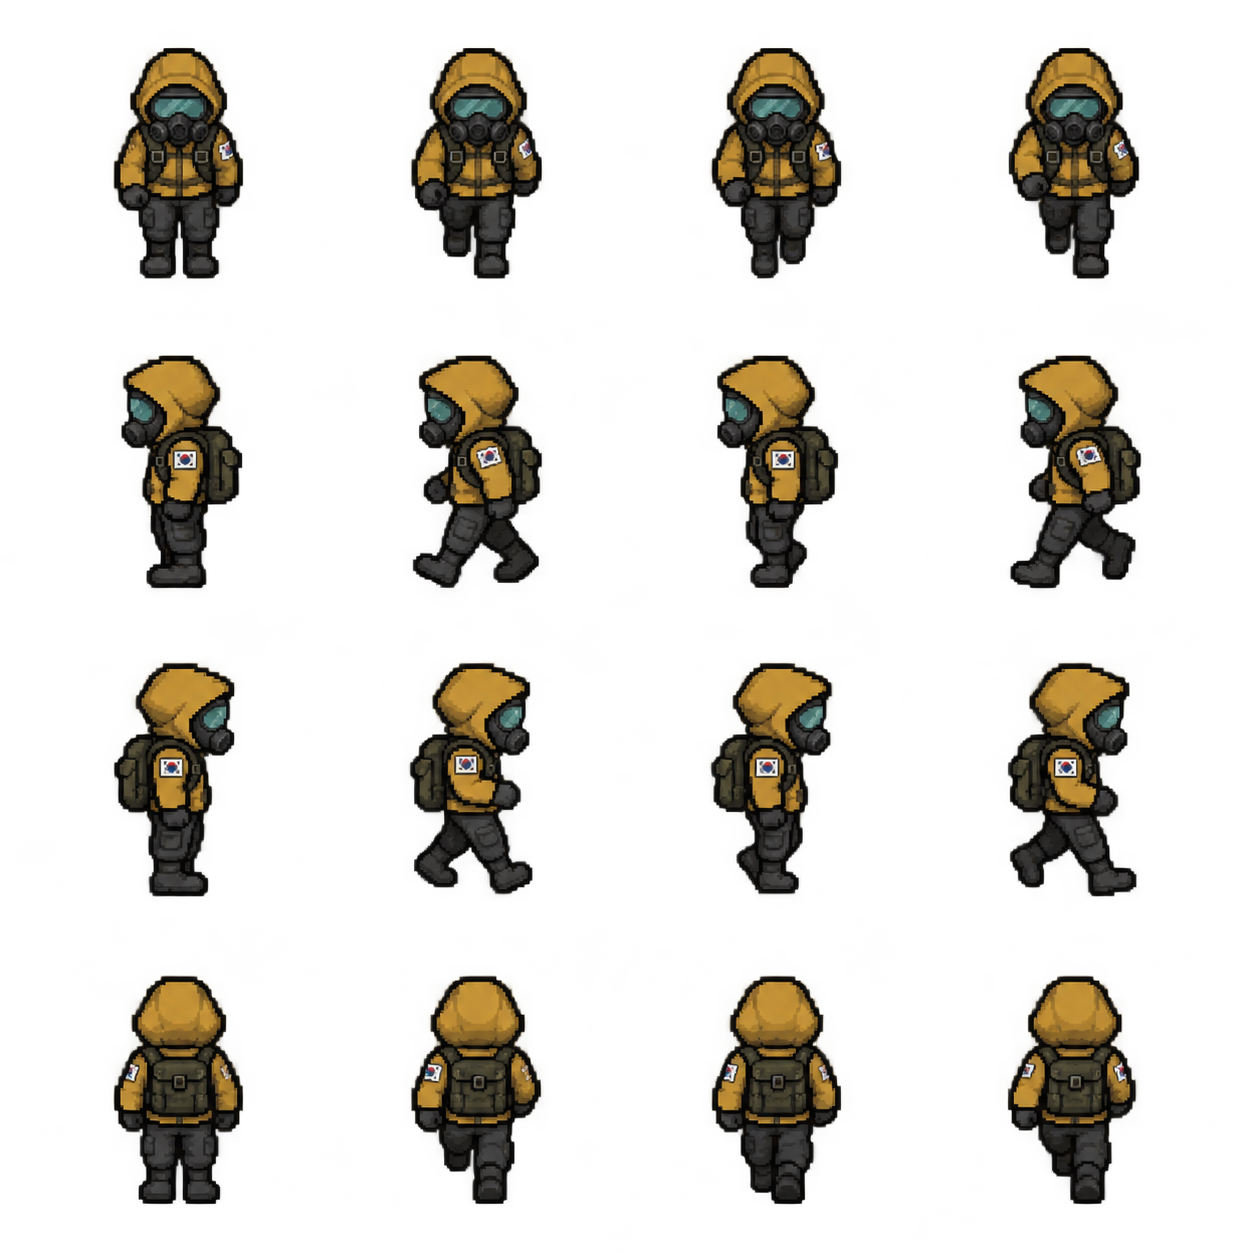
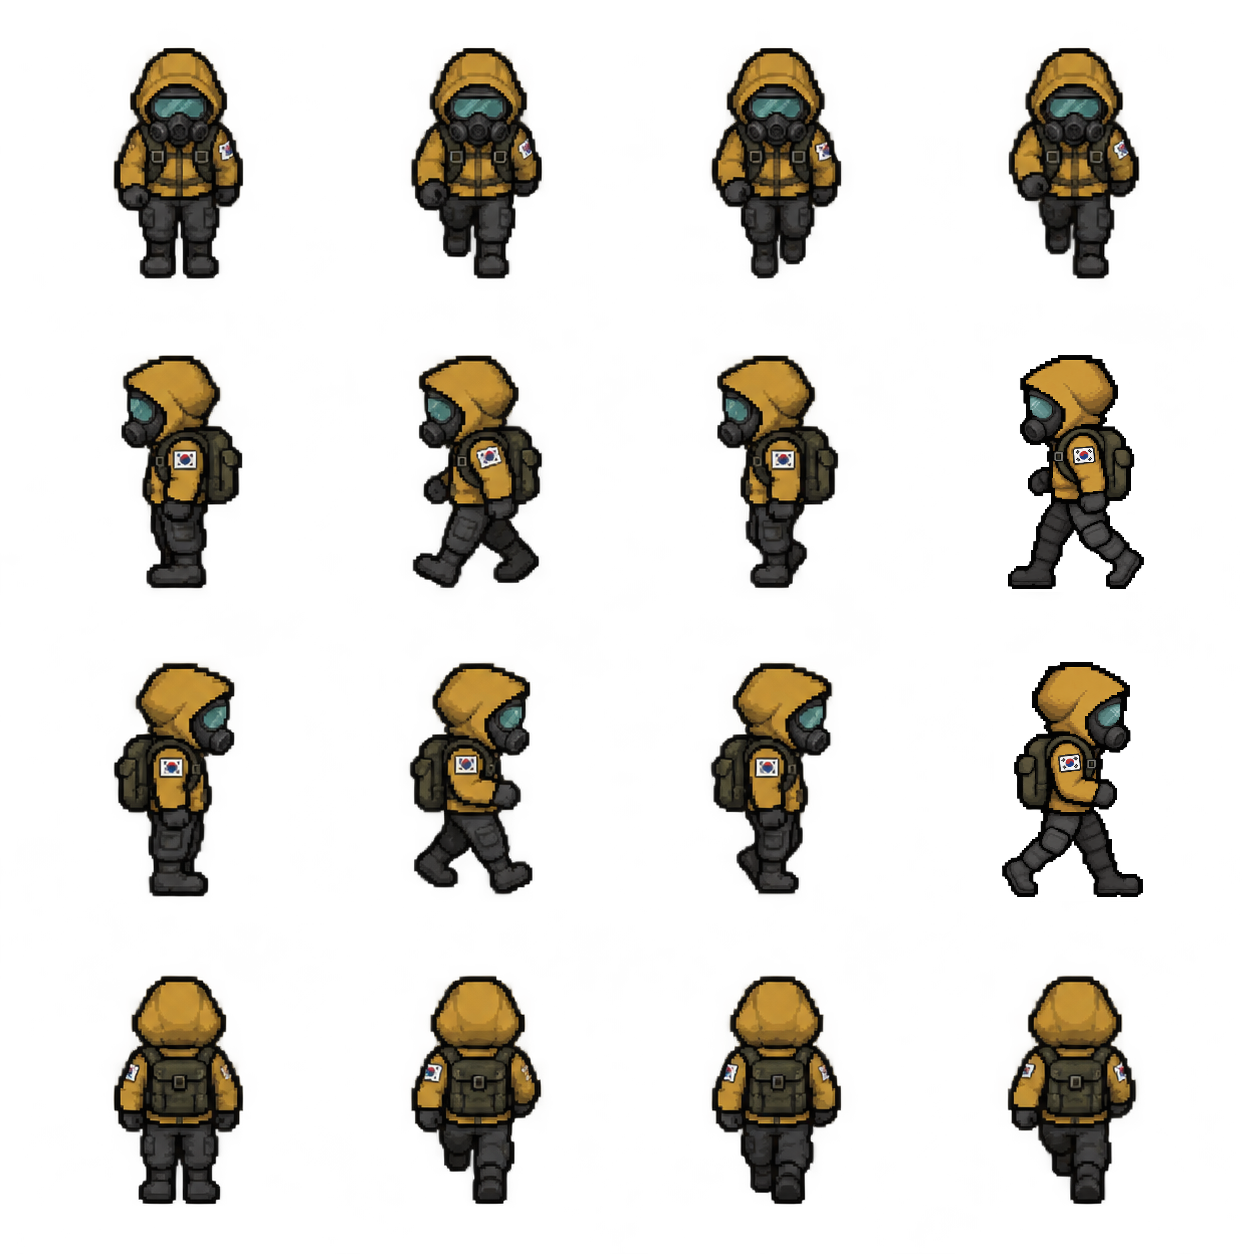
8방향 걷기 발 교대와 조용히 걷기 명암 보정

Changed region(s): [[0.8086, 0.2799, 0.933, 0.4665], [0.7775, 0.5287, 0.933, 0.7153]]

diff --git a/src/player.py b/src/player.py
@@ -132,11 +132,30 @@ class Player:
         frame = 0
         if self.walk_time:
             frame = WALK_FRAMES[int(self.walk_time / WALK_FRAME_TIME) % len(WALK_FRAMES)]
+        if frame == 3 and self.direction in (0, 3):
+            self.draw_reverse_step()
+            return
         self.image.clip_draw(
             FRAME_CENTERS[frame] - FRAME_WIDTH // 2,
             self.image.h - ROW_BOTTOMS[self.direction],
             FRAME_WIDTH, FRAME_HEIGHT,
             self.x, self.y + 13, 32, 50,
+        )
+
+    def draw_reverse_step(self):
+        # Reuse the opposite leg pose while keeping the sleeves and patch in place.
+        leg_height = 89
+        leg_draw_height = 18
+        bottom = self.image.h - ROW_BOTTOMS[self.direction]
+        ground = self.y - 12
+        self.image.clip_composite_draw(
+            FRAME_CENTERS[1] - FRAME_WIDTH // 2, bottom, FRAME_WIDTH, leg_height,
+            0, "h", self.x, ground + leg_draw_height / 2, 32, leg_draw_height,
+        )
+        self.image.clip_draw(
+            FRAME_CENTERS[3] - FRAME_WIDTH // 2, bottom + leg_height,
+            FRAME_WIDTH, FRAME_HEIGHT - leg_height,
+            self.x, ground + leg_draw_height + 16, 32, 32,
         )
 
     def draw_diagonal(self, image, frame):

diff --git a/src/main.py b/src/main.py
@@ -35,6 +35,9 @@ class Exploration:
             pico2d.load_image(str(ASSETS / name))
             for name in ("survivor_diagonal_walk.png", "survivor_diagonal_sneak.png", "survivor_diagonal_pickup.png")
         )
+        # Match the brighter sneak sheets to the corresponding walk palettes.
+        sdl2.SDL_SetTextureColorMod(self.sneak_image.texture, 227, 230, 212)
+        sdl2.SDL_SetTextureColorMod(self.diagonal_images[1].texture, 242, 245, 210)
         self.exploration_map = TileMap()
         self.settings_open = False
         self.speed_percent = DEFAULT_SPEED

diff --git a/assets/ANIMATION_GUIDE.md b/assets/ANIMATION_GUIDE.md
@@ -12,6 +12,10 @@
 
 조용히 걷기는 게임에서 46픽셀 높이로 그린다. 일반 걷기와 같은 바닥 기준점에 발을 맞추고 Shift 전환 시 발걸음 주기에서 현재 위치를 이어받는다.
 
+일반 걷기 8방향은 2→3→4→3칸을 반복한다. 좌우와 대각선은 반대 디딤을 그린 자세를 사용한다. 상하에서는 4번째 칸을 그릴 때 2번째 칸의 다리만 좌우 반전하고 상체는 4번째 칸을 유지한다. 일반 걷기 시트를 내장 imagegen에 참조로 넣어 새 디딤 자세를 요청했다. 카메라에 가까운 다리의 밝은 무릎 패드와 먼 다리의 어두운 면을 구분하고, 두 디딤 자세에서 앞발과 뒷발이 교대하게 했다.
+
+Shift 전환 때 조용히 걷기 시트가 밝아 보이는 차이를 줄이기 위해, 게임이 이미지를 불러올 때 조용히 걷기 시트에만 색을 보정한다. Pico2D에서 같은 위치와 발걸음 단계의 우향·좌하향 후드 색을 읽어 보정 전보다 일반 걷기 색에 가까워진 것을 확인했다.
+
 새 동작을 만들 때는 이 시트를 참조 이미지로 사용한다. 실제 게임 크기에서 원본과 비교해 장비 색과 크기, 발이 닿는 위치, 첫 프레임과 마지막 프레임 사이의 이어짐을 확인한다. 공통 제작 양식은 [도트 리소스 제작 가이드](ART_GUIDE.md)를 따른다.
 
 ## 대각선 네 방향

diff --git a/assets/ART_GUIDE.md b/assets/ART_GUIDE.md
@@ -32,6 +32,8 @@
 ## 적용 전 확인
 
 - [ ] 기준 이미지와 나란히 놓고 색상, 각도, 비율, 도트 크기를 비교했다.
+- [ ] 같은 조명 아래에서 일반 걷기와 조용히 걷기를 전환해 후드, 배낭, 바지의 밝기가 갑자기 달라지지 않는지 확인했다.
+- [ ] 걷기 주기의 두 디딤 자세를 나란히 놓고 같은 다리를 추적해, 앞에서 몸 아래를 지나 뒤로 가는지 방향별로 확인했다.
 - [ ] 실제 게임 크기에서 캐릭터, 아이템, 출입구를 알아볼 수 있다.
 - [ ] 투명 PNG의 테두리에 배경색이 남거나 일부가 잘리지 않는다.
 - [ ] 애니메이션은 동작과 방향을 바꿔도 발 기준점이 튀지 않는다. 반복 재생으로 프레임 순서와 연결을 확인했다.
